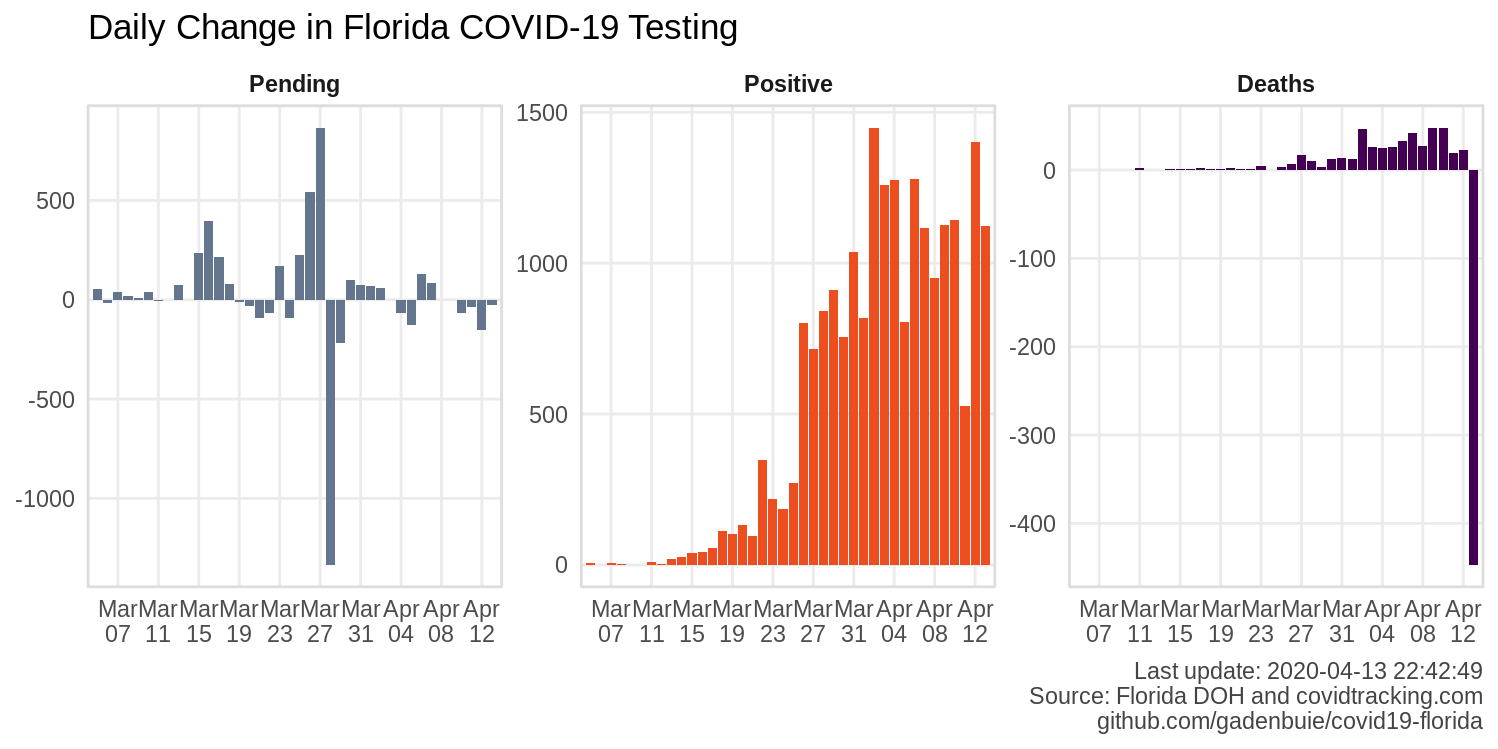
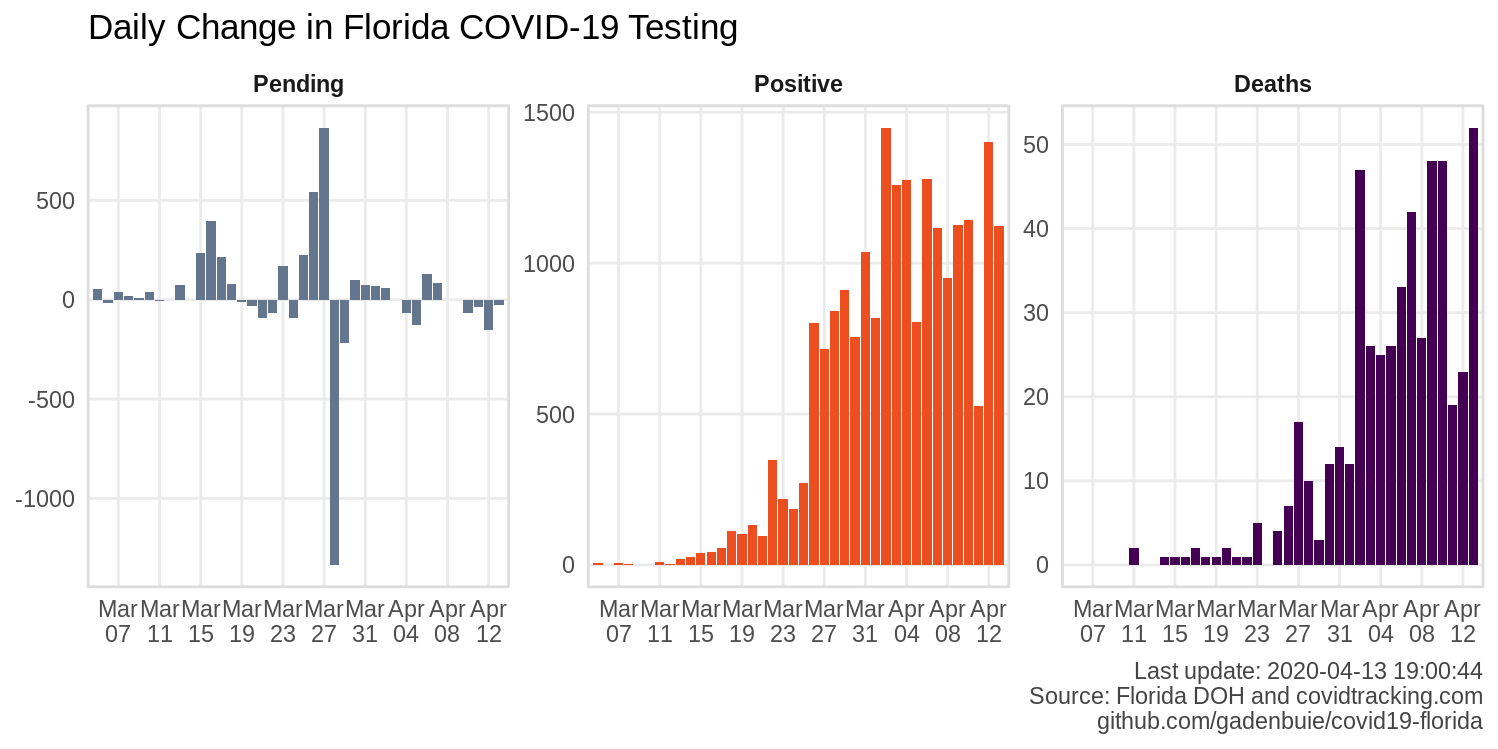
Fix processing of summary table from arcgis after source column was renamed
Fixes #10

diff --git a/README.md b/README.md
@@ -3,10 +3,10 @@
 
 | When        | Day        | Positive | New Positive Since | Deaths | New Deaths Since |  Total |
 | :---------- | :--------- | -------: | -----------------: | -----: | ---------------: | -----: |
-| Today       | 2020-04-13 |    21019 |                  0 |     14 |                0 | 199767 |
-| Yesterday   | 2020-04-12 |    19895 |               1124 |    461 |            \-447 | 185497 |
-| Last Week   | 2020-04-06 |    13629 |               7390 |    254 |            \-240 | 124726 |
-| 2 Weeks Ago | 2020-03-30 |     5704 |              15315 |     71 |             \-57 |  55516 |
+| Today       | 2020-04-13 |    21019 |                  0 |    513 |                0 | 199767 |
+| Yesterday   | 2020-04-12 |    19895 |               1124 |    461 |               52 | 185497 |
+| Last Week   | 2020-04-06 |    13629 |               7390 |    254 |              259 | 124726 |
+| 2 Weeks Ago | 2020-03-30 |     5704 |              15315 |     71 |              442 |  55516 |
 
 Parsed from the [Florida’s COVID-19 Data and Surveillance
 Dashboard](https://fdoh.maps.arcgis.com/apps/opsdashboard/index.html#/8d0de33f260d444c852a615dc7837c86).

diff --git a/NEWS.md b/NEWS.md
@@ -1,8 +1,12 @@
 # 2020-04-13
 
 - At some point in the last few days, the Cases variable in the Line List table
-  served via ArcGis changed from a numeric timestamp to a character `d/m/Y HH:MM`
+  served via ArcGIS changed from a numeric timestamp to a character `d/m/Y HH:MM`
   timestamp.
+  
+- Similarly Florida resident deaths were previously reported in the variable
+  `fl_res_deaths`, which was renamed `c_fl_res_deaths` in the county-level
+  summary table served via ArcGIS.
 
 # 2020-04-09
 
